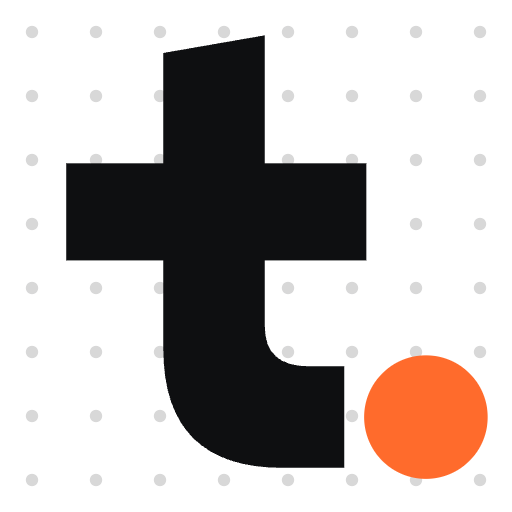
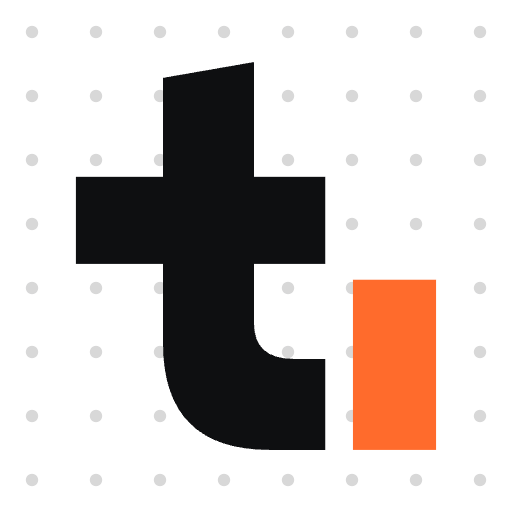
Brand: the t tile's path runs to the blaze block cursor (#107)
* Brand: the t tile's path runs to the blaze block cursor, in the favicons, badges and sprite

* LinkedIn/Discord avatar and apple-touch-icon: the mark sized for a round crop

Changed region(s): [[0.3125, 0.0625, 0.9688, 0.9375], [0.125, 0.3125, 0.3438, 0.5312]]

diff --git a/cloud/index.html b/cloud/index.html
@@ -34,10 +34,10 @@
     <meta name="twitter:card" content="summary_large_image" />
     <meta name="twitter:image" content="%SITE_URL%/media/brand/og-image-1200x630.png" />
     <meta name="theme-color" content="#0a0a0b" />
-    <link rel="icon" href="/media/brand/favicon-32.png?v=6" type="image/png" sizes="32x32" />
-    <link rel="icon" href="/media/brand/favicon-64.png?v=6" type="image/png" sizes="64x64" />
-    <link rel="icon" href="/media/brand/favicon.svg?v=6" type="image/svg+xml" sizes="any" />
-    <link rel="apple-touch-icon" href="/media/brand/linkedin-discord-avatar-512.png?v=6" />
+    <link rel="icon" href="/media/brand/favicon-32.png?v=7" type="image/png" sizes="32x32" />
+    <link rel="icon" href="/media/brand/favicon-64.png?v=7" type="image/png" sizes="64x64" />
+    <link rel="icon" href="/media/brand/favicon.svg?v=7" type="image/svg+xml" sizes="any" />
+    <link rel="apple-touch-icon" href="/media/brand/linkedin-discord-avatar-512.png?v=7" />
     <link
       rel="preload"
       href="/node_modules/@fontsource-variable/inter/files/inter-latin-opsz-normal.woff2"

diff --git a/features/index.html b/features/index.html
@@ -34,10 +34,10 @@
     <meta name="twitter:card" content="summary_large_image" />
     <meta name="twitter:image" content="%SITE_URL%/media/brand/og-image-1200x630.png" />
     <meta name="theme-color" content="#0a0a0b" />
-    <link rel="icon" href="/media/brand/favicon-32.png?v=6" type="image/png" sizes="32x32" />
-    <link rel="icon" href="/media/brand/favicon-64.png?v=6" type="image/png" sizes="64x64" />
-    <link rel="icon" href="/media/brand/favicon.svg?v=6" type="image/svg+xml" sizes="any" />
-    <link rel="apple-touch-icon" href="/media/brand/linkedin-discord-avatar-512.png?v=6" />
+    <link rel="icon" href="/media/brand/favicon-32.png?v=7" type="image/png" sizes="32x32" />
+    <link rel="icon" href="/media/brand/favicon-64.png?v=7" type="image/png" sizes="64x64" />
+    <link rel="icon" href="/media/brand/favicon.svg?v=7" type="image/svg+xml" sizes="any" />
+    <link rel="apple-touch-icon" href="/media/brand/linkedin-discord-avatar-512.png?v=7" />
     <link
       rel="preload"
       href="/node_modules/@fontsource-variable/inter/files/inter-latin-opsz-normal.woff2"

diff --git a/guides/index.html b/guides/index.html
@@ -34,10 +34,10 @@
     <meta name="twitter:card" content="summary_large_image" />
     <meta name="twitter:image" content="%SITE_URL%/media/brand/og-image-1200x630.png" />
     <meta name="theme-color" content="#0a0a0b" />
-    <link rel="icon" href="/media/brand/favicon-32.png?v=6" type="image/png" sizes="32x32" />
-    <link rel="icon" href="/media/brand/favicon-64.png?v=6" type="image/png" sizes="64x64" />
-    <link rel="icon" href="/media/brand/favicon.svg?v=6" type="image/svg+xml" sizes="any" />
-    <link rel="apple-touch-icon" href="/media/brand/linkedin-discord-avatar-512.png?v=6" />
+    <link rel="icon" href="/media/brand/favicon-32.png?v=7" type="image/png" sizes="32x32" />
+    <link rel="icon" href="/media/brand/favicon-64.png?v=7" type="image/png" sizes="64x64" />
+    <link rel="icon" href="/media/brand/favicon.svg?v=7" type="image/svg+xml" sizes="any" />
+    <link rel="apple-touch-icon" href="/media/brand/linkedin-discord-avatar-512.png?v=7" />
     <link
       rel="preload"
       href="/node_modules/@fontsource-variable/inter/files/inter-latin-opsz-normal.woff2"

diff --git a/index.html b/index.html
@@ -34,10 +34,10 @@
     <meta name="twitter:card" content="summary_large_image" />
     <meta name="twitter:image" content="%SITE_URL%/media/brand/og-image-1200x630.png" />
     <meta name="theme-color" content="#0a0a0b" />
-    <link rel="icon" href="/media/brand/favicon-32.png?v=6" type="image/png" sizes="32x32" />
-    <link rel="icon" href="/media/brand/favicon-64.png?v=6" type="image/png" sizes="64x64" />
-    <link rel="icon" href="/media/brand/favicon.svg?v=6" type="image/svg+xml" sizes="any" />
-    <link rel="apple-touch-icon" href="/media/brand/linkedin-discord-avatar-512.png?v=6" />
+    <link rel="icon" href="/media/brand/favicon-32.png?v=7" type="image/png" sizes="32x32" />
+    <link rel="icon" href="/media/brand/favicon-64.png?v=7" type="image/png" sizes="64x64" />
+    <link rel="icon" href="/media/brand/favicon.svg?v=7" type="image/svg+xml" sizes="any" />
+    <link rel="apple-touch-icon" href="/media/brand/linkedin-discord-avatar-512.png?v=7" />
     <link
       rel="preload"
       href="/node_modules/@fontsource-variable/inter/files/inter-latin-opsz-normal.woff2"

diff --git a/privacy/index.html b/privacy/index.html
@@ -34,10 +34,10 @@
     <meta name="twitter:card" content="summary_large_image" />
     <meta name="twitter:image" content="%SITE_URL%/media/brand/og-image-1200x630.png" />
     <meta name="theme-color" content="#0a0a0b" />
-    <link rel="icon" href="/media/brand/favicon-32.png?v=6" type="image/png" sizes="32x32" />
-    <link rel="icon" href="/media/brand/favicon-64.png?v=6" type="image/png" sizes="64x64" />
-    <link rel="icon" href="/media/brand/favicon.svg?v=6" type="image/svg+xml" sizes="any" />
-    <link rel="apple-touch-icon" href="/media/brand/linkedin-discord-avatar-512.png?v=6" />
+    <link rel="icon" href="/media/brand/favicon-32.png?v=7" type="image/png" sizes="32x32" />
+    <link rel="icon" href="/media/brand/favicon-64.png?v=7" type="image/png" sizes="64x64" />
+    <link rel="icon" href="/media/brand/favicon.svg?v=7" type="image/svg+xml" sizes="any" />
+    <link rel="apple-touch-icon" href="/media/brand/linkedin-discord-avatar-512.png?v=7" />
     <link rel="stylesheet" href="/src/styles.css" />
   </head>
   <body>

diff --git a/slack/index.html b/slack/index.html
@@ -35,10 +35,10 @@
     <meta name="twitter:card" content="summary_large_image" />
     <meta name="twitter:image" content="%SITE_URL%/media/brand/og-image-1200x630.png" />
     <meta name="theme-color" content="#0a0a0b" />
-    <link rel="icon" href="/media/brand/favicon-32.png?v=6" type="image/png" sizes="32x32" />
-    <link rel="icon" href="/media/brand/favicon-64.png?v=6" type="image/png" sizes="64x64" />
-    <link rel="icon" href="/media/brand/favicon.svg?v=6" type="image/svg+xml" sizes="any" />
-    <link rel="apple-touch-icon" href="/media/brand/linkedin-discord-avatar-512.png?v=6" />
+    <link rel="icon" href="/media/brand/favicon-32.png?v=7" type="image/png" sizes="32x32" />
+    <link rel="icon" href="/media/brand/favicon-64.png?v=7" type="image/png" sizes="64x64" />
+    <link rel="icon" href="/media/brand/favicon.svg?v=7" type="image/svg+xml" sizes="any" />
+    <link rel="apple-touch-icon" href="/media/brand/linkedin-discord-avatar-512.png?v=7" />
     <link rel="stylesheet" href="/src/styles.css" />
   </head>
   <body>

diff --git a/404.html b/404.html
@@ -14,10 +14,10 @@
     <title>Page not found · Teamtrail</title>
     <meta name="robots" content="noindex" />
     <meta name="theme-color" content="#0a0a0b" />
-    <link rel="icon" href="/media/brand/favicon-32.png?v=6" type="image/png" sizes="32x32" />
-    <link rel="icon" href="/media/brand/favicon-64.png?v=6" type="image/png" sizes="64x64" />
-    <link rel="icon" href="/media/brand/favicon.svg?v=6" type="image/svg+xml" sizes="any" />
-    <link rel="apple-touch-icon" href="/media/brand/linkedin-discord-avatar-512.png?v=6" />
+    <link rel="icon" href="/media/brand/favicon-32.png?v=7" type="image/png" sizes="32x32" />
+    <link rel="icon" href="/media/brand/favicon-64.png?v=7" type="image/png" sizes="64x64" />
+    <link rel="icon" href="/media/brand/favicon.svg?v=7" type="image/svg+xml" sizes="any" />
+    <link rel="apple-touch-icon" href="/media/brand/linkedin-discord-avatar-512.png?v=7" />
     <link rel="stylesheet" href="/src/styles.css" />
   </head>
   <body>

diff --git a/partials/sprite.html b/partials/sprite.html
@@ -11,10 +11,10 @@
       stroke="var(--tt-logo-edge)"
       stroke-width="2"
     />
-    <g transform="translate(32 30) scale(.66)">
+    <g transform="translate(30.7 35.3) scale(.66)">
       <path d="M58 8L104 0V132Q104 150 124 150H140V196H112Q58 196 58 142Z" fill="var(--tt-logo-mark)" />
-      <path d="M14 58H150V102H14Z" fill="var(--tt-logo-mark)" />
-      <circle cx="177" cy="173" r="28" fill="var(--tt-logo-dot)" />
+      <path d="M14 58H140V102H14Z" fill="var(--tt-logo-mark)" />
+      <rect x="154" y="110" width="42" height="86" fill="var(--tt-logo-cursor)" />
     </g>
   </symbol>
 </svg>

diff --git a/src/styles.css b/src/styles.css
@@ -44,7 +44,7 @@
   --tt-logo-tile: #0e0f11;
   --tt-logo-edge: #0e0f11;
   --tt-logo-mark: #ffffff;
-  --tt-logo-dot: var(--fill);
+  --tt-logo-cursor: var(--fill);
   /* Guide icons (guideMarkup from @teamtrail/scout-avatar): the symbol alone on the page, ink with one blaze accent.
    * Older versions of the package drew a tile from --tt-guide-bg and --tt-guide-line: transparent, so none shows. */
   --tt-guide-ink: #0e0f11;

diff --git a/README.md b/README.md
@@ -10,7 +10,7 @@ Static marketing site for [teamtrail.app](https://www.teamtrail.app): Vite + Typ
 - `privacy/index.html`: the privacy policy for the site, Scout and Teamtrail Cloud.
 - `/docs/`: the docs, written as Markdown in `content/docs` (order and sections in `content/docs/nav.json`) and built into `docs/<slug>/index.html` pages by `scripts/docs/generate.mjs` (see [Search and LLMs](#search-and-llms)).
 
-Shared markup lives in `partials/` (`sprite`, `nav`, `footer`) and is pasted in at build time by `<!-- @include name -->` (see `vite.config.ts`). The sprite holds the square `t.` logo (`#tt-logo`), coloured per theme by `--tt-logo-*` in `src/styles.css`, for square spaces. Spaces wider than tall, like the nav, the footer and the hero video's end card, take the `teamtrail` wordmark set in Inter 600 with tight tracking and a blaze block cursor (`.brand__word`): it blinks in the nav and footer (still under reduced motion) and is still everywhere else, the video's end card included. Never both side by side.
+Shared markup lives in `partials/` (`sprite`, `nav`, `footer`) and is pasted in at build time by `<!-- @include name -->` (see `vite.config.ts`). The sprite holds the square `t` logo (`#tt-logo`), coloured per theme by `--tt-logo-*` in `src/styles.css`, for square spaces. Spaces wider than tall, like the nav, the footer and the hero video's end card, take the `teamtrail` wordmark set in Inter 600 with tight tracking and a blaze block cursor (`.brand__word`): it blinks in the nav and footer (still under reduced motion) and is still everywhere else, the video's end card included. Never both side by side.
 
 The look is dark-first: near-black surfaces, hairline borders, square corners and one accent, blaze (`#FF6B2C`; a darker `#C2410C` for text on day), with rose only for what needs you and green only for what passed (tokens at the top of `src/styles.css`). Type is Inter (with its optical-size axis, so headlines get the display cut) for everything and JetBrains Mono for commands, code and labels, both self-hosted through `@fontsource`. Page heroes and the closing section sit on a CSS dot grid. Home's How it works cards and the Done means proven section, each section of /features, the ticket on /guides, /slack and /cloud show animated product scenes instead of screenshots: stylised fragments of the Lookout in HTML and CSS (`partials/scene-*.html`, styles in `src/scenes.css`, `src/scenes-pages.css` for /features and /guides, `src/scenes-slack.css` and `src/scenes-cloud.css` for /slack and /cloud), each played by a small sequencer that adds and removes classes (`src/scenes/`). The scenes take turns (`src/scenes/turns.ts`): one plays at a time on the page, the on-screen ones in document order, and nothing plays off screen or in a hidden tab. The markup is each scene's still frame, which is what shows without scripts or with reduced motion. A scene's root goes back to its markup after each turn, so a live widget (Scout) sits outside it or is mounted again (`src/keepMounted.ts`). JS adds the install box that types through `npx teamtrail` and the Claude Code and Codex connect commands (`src/cmdCycle.ts`), the looping explainer video (muted, no controls, paused off-screen), the badge scramble, scroll reveals, copy buttons, the Scout avatar and the waitlist form. The pages read fine without it.
 
@@ -71,7 +71,7 @@ npm run guides:snapshot
 
 ## Product media
 
-Screenshots and the explainer video (`landing-journey-720.mp4` and its poster) live in `public/media/`; favicons and the OG image in `public/media/brand/`. The favicons, OG image and avatar are exported from the product repo's `packages/scout-avatar` (`npm run capture`, its `brand/` folder); `favicon.svg` is its `logoFaviconSvg()` (the blaze `t.` tile, the same on light and dark tabs), and the PNGs and `public/favicon.ico` (16, 32 and 48 px) are the same tile for browsers without SVG icons. Bump the `?v=` on the icon links (and in `scripts/docs/template.mjs`) when they change. Both come from the real product on a real project (`scripts/lib/realProject.mjs`): the dev seed in a git repo at `/Users/Shared/code/fieldnote-app` (`CAPTURE_CODE_DIR` to change it; its paths show in the shots, so one capture runs at a time), the built `teamtrail` server with a worktree per claimed ticket, and three real MCP agents (`scripts/dev-agent.mjs` in the product repo) that the scripts answer in Hands-off's Needs you list and in the bubble on the map. The shots of the map switch to Hands-on first (Hands-off is the default). Nothing is simulated.
+Screenshots and the explainer video (`landing-journey-720.mp4` and its poster) live in `public/media/`; favicons and the OG image in `public/media/brand/`. The favicons, OG image and avatar are exported from the product repo's `packages/scout-avatar` (`npm run capture`, its `brand/` folder); `favicon.svg` is its `logoFaviconSvg()` (the blaze `t` tile, its path running to a white block cursor, the same on light and dark tabs), and the PNGs and `public/favicon.ico` (16, 32 and 48 px) are the same tile for browsers without SVG icons. Bump the `?v=` on the icon links (and in `scripts/docs/template.mjs`) when they change. Both come from the real product on a real project (`scripts/lib/realProject.mjs`): the dev seed in a git repo at `/Users/Shared/code/fieldnote-app` (`CAPTURE_CODE_DIR` to change it; its paths show in the shots, so one capture runs at a time), the built `teamtrail` server with a worktree per claimed ticket, and three real MCP agents (`scripts/dev-agent.mjs` in the product repo) that the scripts answer in Hands-off's Needs you list and in the bubble on the map. The shots of the map switch to Hands-on first (Hands-off is the default). Nothing is simulated.
 
 ```bash
 (cd ../teamtrail && npm install && npm run build -w teamtrail)   # once, and after CLI or app changes
